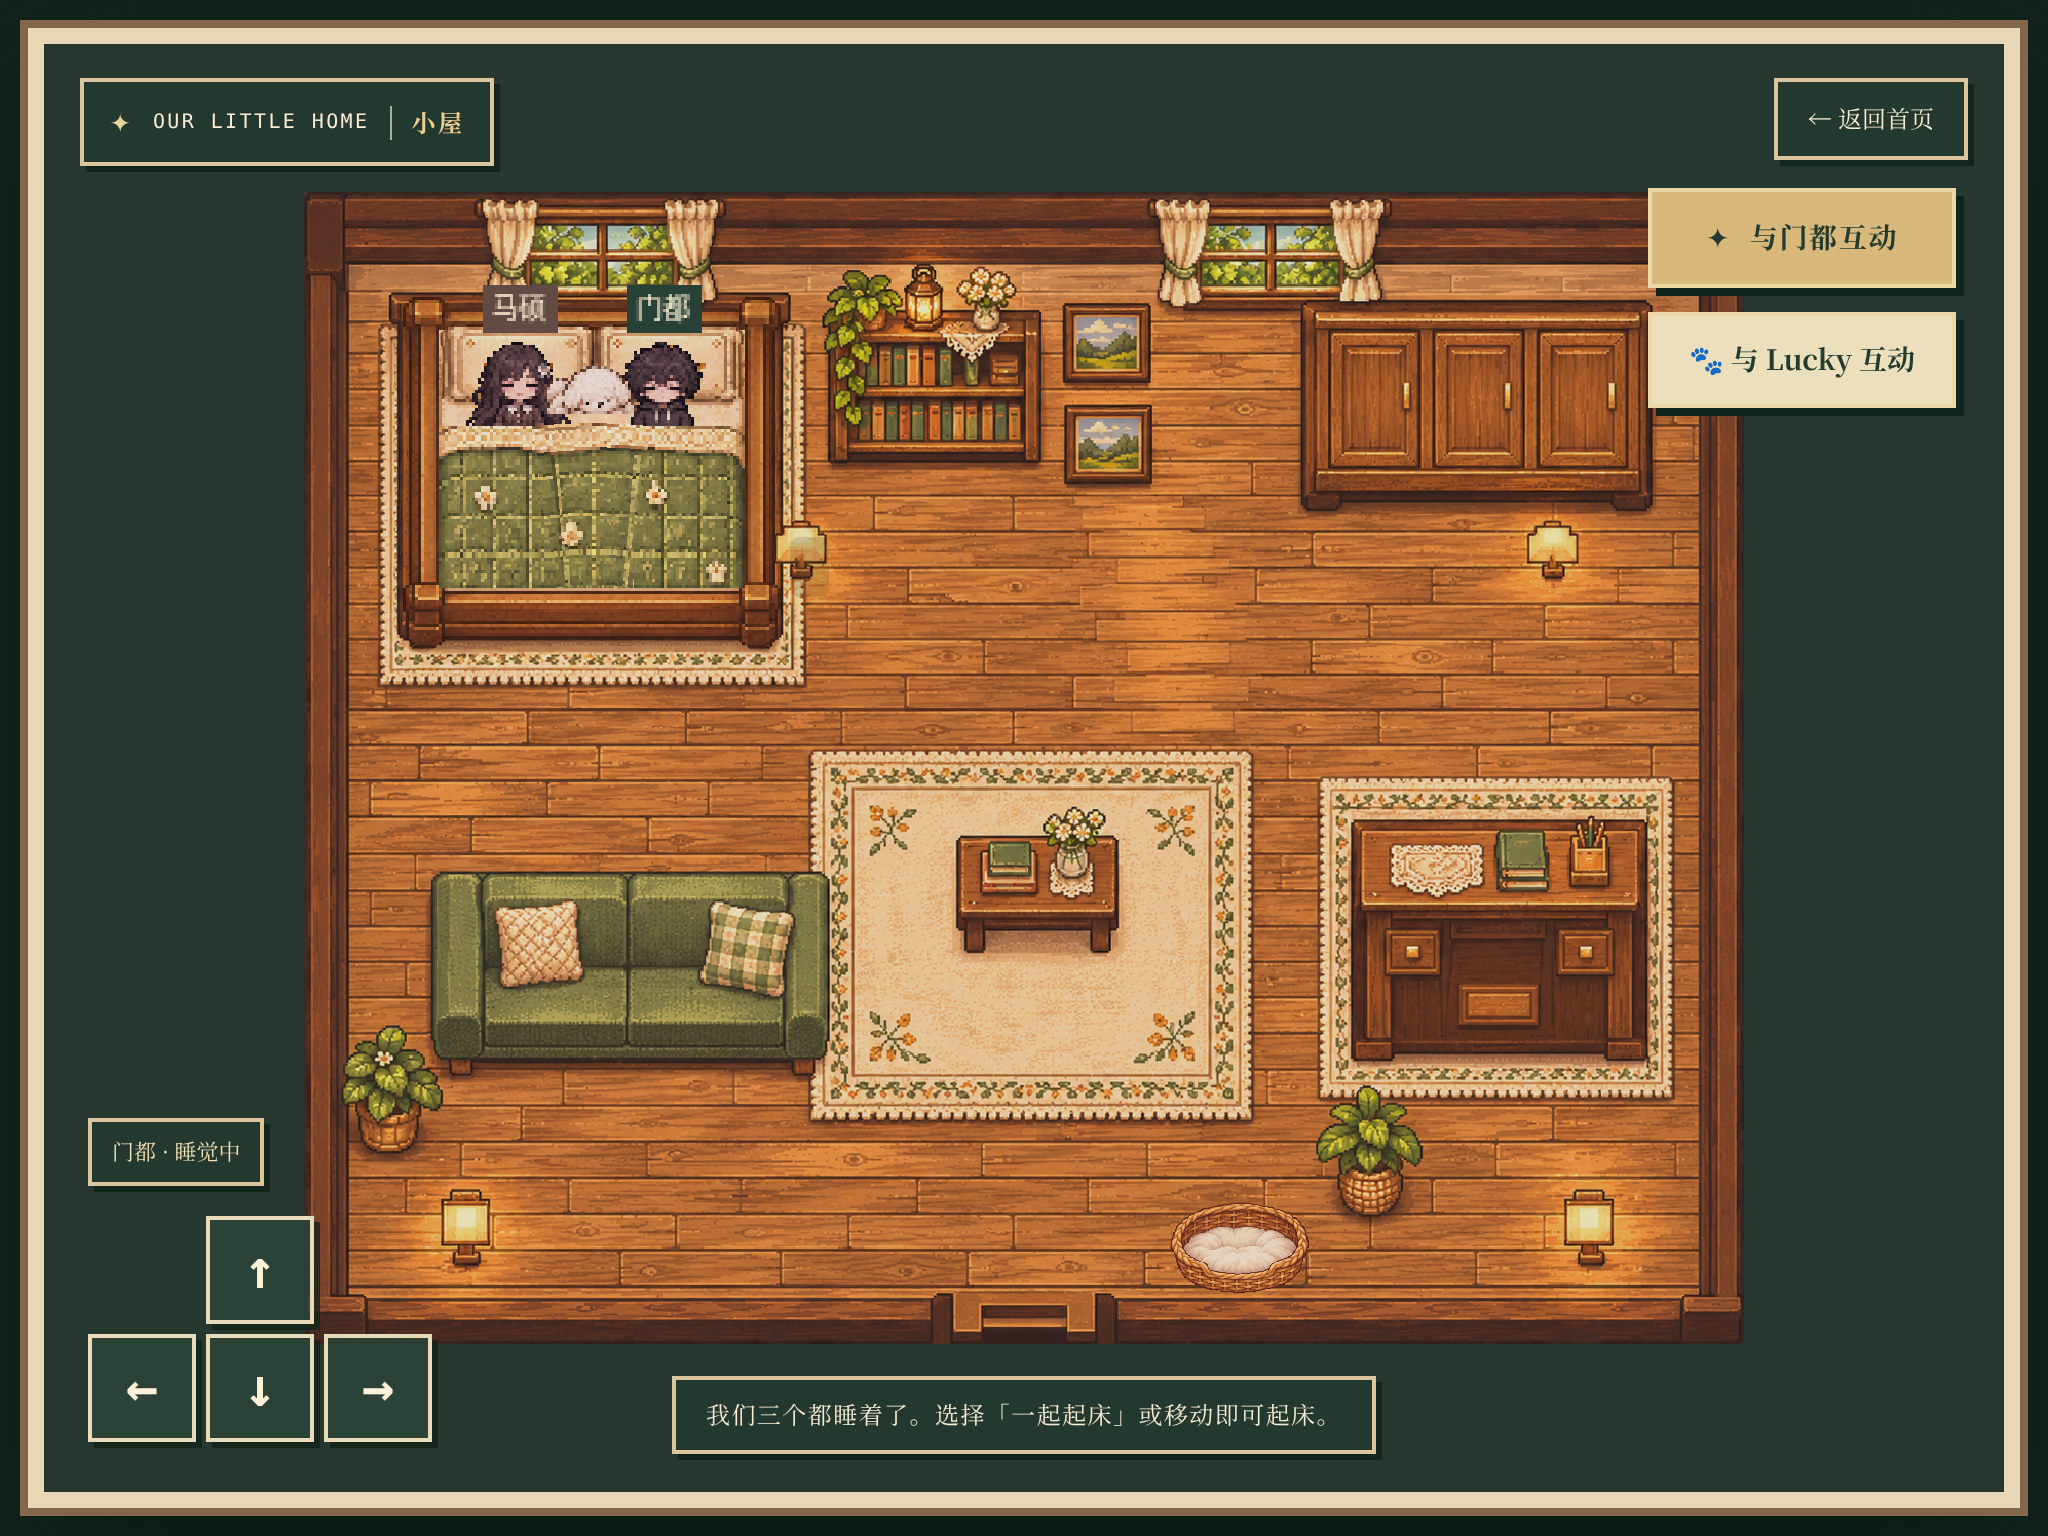
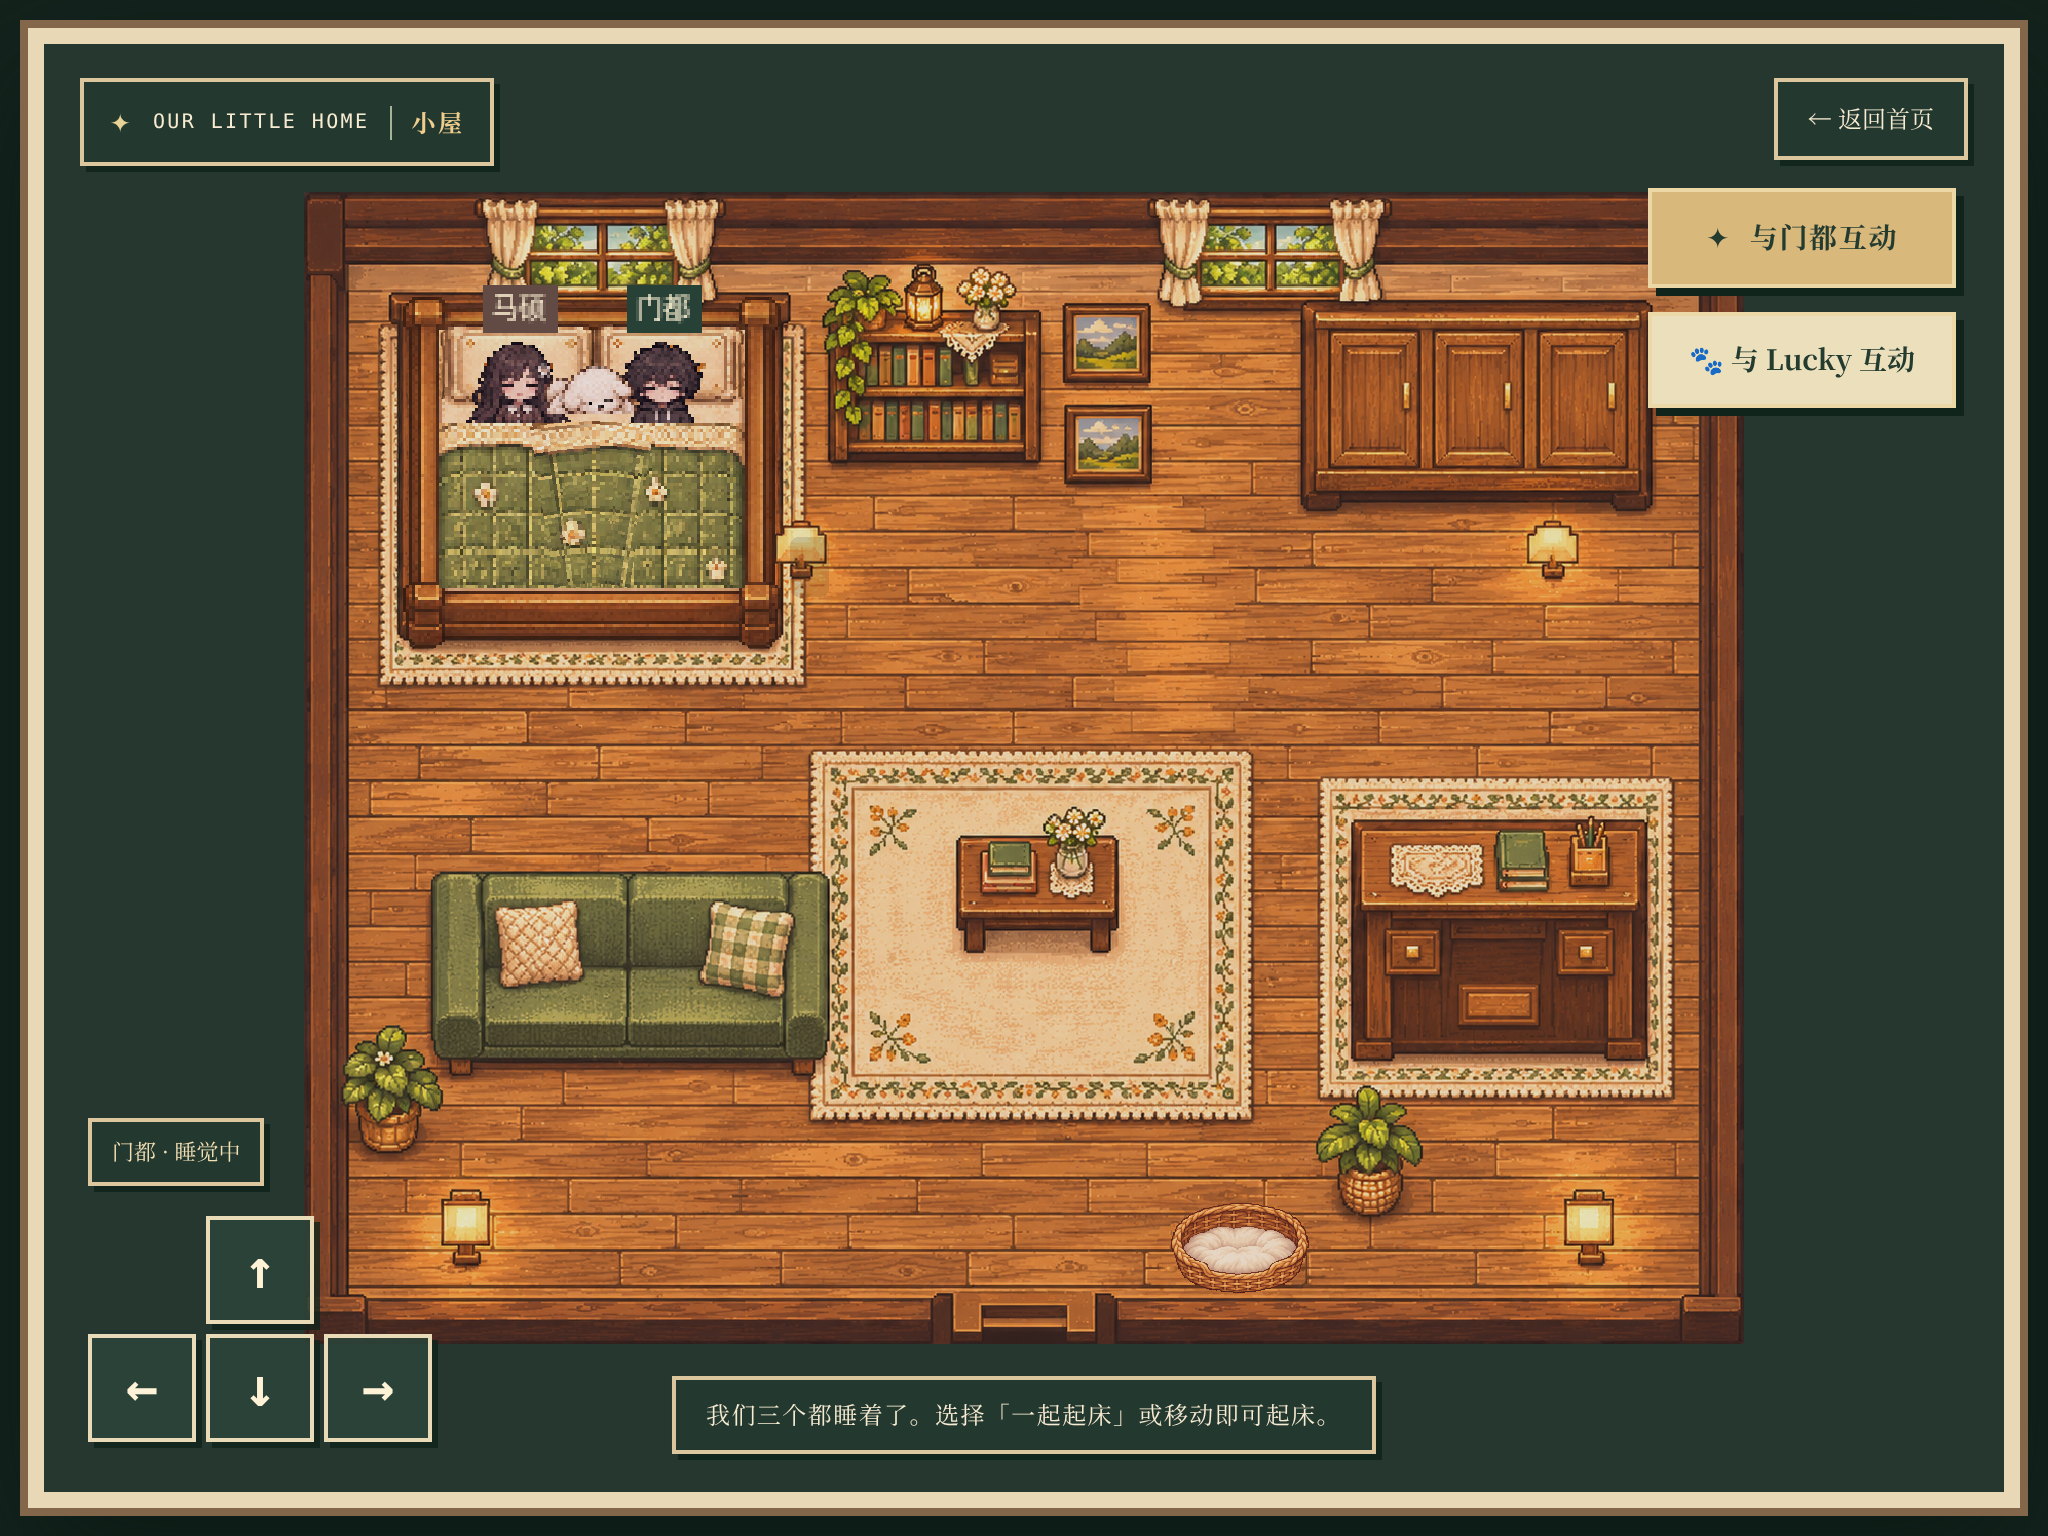
Allow touch scrolling in long action menus without unlocking canvas gestures

Changed region(s): [[0.2188, 0.25, 0.375, 0.375]]

diff --git a/src/style.css b/src/style.css
@@ -5,3 +5,6 @@
 /* Keep the interaction controls above the playfield's usual walking area. */
 .interact-launch{top:72px;bottom:auto}.interaction-menu{top:130px;max-height:calc(100% - 148px)}@media(max-width:700px){.interact-launch{top:66px;bottom:auto}.interaction-menu{top:123px;max-height:calc(100% - 135px)}}@media(max-height:520px){.interaction-menu{top:112px;max-height:calc(100% - 122px)}}
 .pet-launch{position:absolute;z-index:4;right:24px;top:134px;min-height:48px;min-width:154px;border:2px solid #ecd7a7;background:#ece0bc;color:#243b30;box-shadow:4px 4px 0 #10241b;font:700 14px Georgia,'Songti SC',serif;touch-action:manipulation}.pet-menu{top:194px;max-height:calc(100% - 212px)}@media(max-width:700px){.pet-launch{top:122px;right:16px;min-width:136px;font-size:12px}.pet-menu{top:178px;max-height:calc(100% - 190px)}}@media(max-height:520px){.pet-launch{top:112px}.pet-menu{top:164px;max-height:calc(100% - 176px)}}
+
+/* Keep the canvas/pad gesture lock while allowing long action menus to scroll. */
+.game-shell{touch-action:auto}.interaction-menu{touch-action:pan-y;overscroll-behavior:contain}

diff --git a/docs/LUCKY_ACTIONS.md b/docs/LUCKY_ACTIONS.md
@@ -47,6 +47,7 @@ npm run dev -- --port 4180
 # 另一个终端启动上述 Vite
 npx playwright install chromium ffmpeg # 首次需要；或使用系统 Chromium
 CHROMIUM_PATH=/usr/bin/chromium node scripts/qa-lucky-actions.cjs
+node scripts/qa-lucky-retina.cjs # DPR2、触控菜单滚动、移动与睡眠中改变窗口尺寸
 ```
 
 脚本使用真实 Phaser 场景，保存截图、连续录像和结果 JSON 到 `/tmp/lucky-actions-qa`。没有改造测试专用地图，也没有用传送跳过寻路。检查包括两人抚摸/抱持、四向抱持移动、咬球和放球、狗窝遮挡、三人流程、取消恢复、原房门往返以及牵手/拥抱/沙发回归。仅开发模式暴露的场景引用用于观察阶段及调用与菜单相同的方法，公开生产构建不暴露它。
@@ -59,7 +60,7 @@ CHROMIUM_PATH=/usr/bin/chromium node scripts/qa-lucky-actions.cjs
 
 - TypeScript 类型检查与生产构建通过；38 项单元测试通过。
 - `qa-lucky-actions.cjs` 的9组真实场景检查全部通过，未捕获浏览器运行异常；连续录像约3分25秒。截图时仅暂停实际场景取帧，再继续执行，没有重新摆放角色。
-- 独立 Chromium 1194×834、DPR 2 验证：Canvas backing width 2300 / CSS width 1150、镜头物理缩放3；触控方向键可移动，页面scrollY保持0；睡眠期间改为1024×768后状态保留并正常起床。
+- 独立 Chromium 1194×834、DPR 2 验证：Canvas backing width 2300 / CSS width 1150、镜头物理缩放3；触控方向键可移动，菜单可用手指滚动115 px，页面scrollY保持0；睡眠期间改为1024×768后状态保留并正常起床。
 - 普通生产构建验证：两个三人睡眠入口禁用，无开发调试桥。
 - 真实 iPad Safari、长期设备帧率与新动作的美术自然程度仍待本人验收。
 
